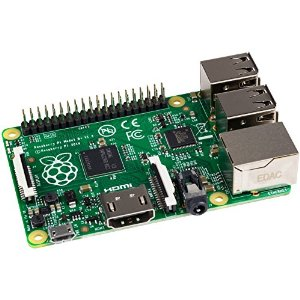
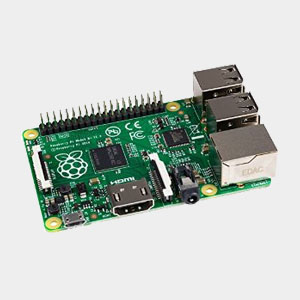
Add WEBP files, functionality for many large images

diff --git a/assets/js/tour.js b/assets/js/tour.js
@@ -1,42 +1,42 @@
 const content = {
     'dorm': {
         'title': 'Dorm Room',
-        'photos': ['/assets/images/tour/dorm/1.jpg'],
+        'photos': ['/assets/images/tour/dorm/1'],
         'description': 'Though the walls are the same as regular dorm rooms, our rooms usually look rather different than the standard RIT room layout.',
     },
     'user-center': {
         'title': 'User Center',
-        'photos': ['/assets/images/tour/usercenter/1.jpg', '/assets/images/tour/usercenter/2.jpg'],
+        'photos': ['/assets/images/tour/usercenter/1', '/assets/images/tour/usercenter/2'],
         'description': 'The User Center is a productive social room. It is often sought out as a place for members to socialize and get work done. It also serves as a meeting place, a project work room, and a technical seminar room.',
     },
     'lounge': {
         'title': 'Lounge',
-        'photos': ['/assets/images/tour/lounge/1.jpg', '/assets/images/tour/lounge/2.jpg'],
+        'photos': ['/assets/images/tour/lounge/1', '/assets/images/tour/lounge/2'],
         'description': 'The Lounge is CSH\'s main social hub. This room is used to host movie nights, social events, technical seminars, company visits, and E-Board meetings.',
     },
     'server-room': {
         'title': 'Server Room',
-        'photos': ['/assets/images/tour/server/1.jpg', '/assets/images/tour/server/2.jpg'],
+        'photos': ['/assets/images/tour/server/1', '/assets/images/tour/server/2'],
         'description': 'CSH\'s server room serves as a place for members to learn and practice their networking skills. It also serves as a place to host the variety of network services provided to our members.',
     },
     'software-room': {
         'title': 'Software Room',
-        'photos': ['/assets/images/tour/software/1.jpg', '/assets/images/tour/software/2.jpg'],
+        'photos': ['/assets/images/tour/software/1', '/assets/images/tour/software/2'],
         'description': 'The Software Room is the perfect place for small group tasks. It is a quiet room that is away from the normal hustle and bustle of floor which makes it great for taking phone calls, playing board games, and working on group assignments. The Software Room also houses CSH\'s book collection as well as a variety of board games.',
     },
     'research-room': {
         'title': 'Research Room',
-        'photos': ['/assets/images/tour/research/1.jpg', '/assets/images/tour/research/2.jpg', '/assets/images/tour/research/3.jpg', '/assets/images/tour/research/4.jpg'],
+        'photos': ['/assets/images/tour/research/1', '/assets/images/tour/research/2', '/assets/images/tour/research/3', '/assets/images/tour/research/4'],
         'description': 'The Research Room is CSH\'s workshop. It houses our two 3D Printers, as well as the tools and materials for members\' electronics projects.',
     },
     'project-room': {
         'title': 'Project Room',
-        'photos': ['/assets/images/tour/project/1.jpg', '/assets/images/tour/project/2.jpg'],
+        'photos': ['/assets/images/tour/project/1', '/assets/images/tour/project/2'],
         'description': 'The Project Room is CSH\'s own custom woodshop. It provides the tools and resources necessary for members to complete any project they can imagine.',
     },
     'library': {
         'title': 'Library',
-        'photos': ['/assets/images/tour/library/1.jpg', '/assets/images/tour/library/2.jpg'],
+        'photos': ['/assets/images/tour/library/1', '/assets/images/tour/library/2'],
         'description': 'The Library is CSH\'s multi-function archive and arcade. It serves as a storage place for all of our historical records and keepsakes as well as a variety of arcade machines, both vintage and custom-built.',
     },
     'conference-room': {
@@ -46,10 +46,15 @@ const content = {
     },
 };
 
-const constructSliderHTML = (photos) => {
+const constructSliderHTML = (room) => {
     let innerHTML = '';
-    for (let photo of photos) {
-        innerHTML += '<div><img src="' + photo + '" /></div>\n';
+    for (let photo of room.photos) {
+        innerHTML += `
+            <picture>
+                <source srcset="${photo}.webp" type="image/webp" />
+                <source srcset="${photo}.jpg" type="image/jpeg" />
+                <img src="${photo}.jpg" alt="CSH ${room.title}" />
+            </picture>`;
     }
     return innerHTML;
 };
@@ -60,7 +65,7 @@ $(document).ready(() => {
         $('#slider').slick('unslick');
         $('#tour-description').text(room.description);
         $('#tour-title').text(room.title);
-        $('#slider').html(constructSliderHTML(room.photos));
+        $('#slider').html(constructSliderHTML(room));
         $('#slider').slick({
             dots: true,
             autoplay: true,
@@ -75,7 +80,7 @@ $(document).ready(() => {
             const room = content[$(this).attr('id')];
             $('#tour-description').text(room.description);
             $('#tour-title').text(room.title);
-            $('#slider').html(constructSliderHTML(room.photos));
+            $('#slider').html(constructSliderHTML(room));
             $('#slider').slick({
                 dots: true,
                 autoplay: true,

diff --git a/index.html b/index.html
@@ -5,13 +5,25 @@ active: home
 
 <div id="slider">
     <div>
-        <img src="/assets/images/welcome_back_large.jpeg" alt="A group of CSHers standing in front of a lake" />
+        <picture>
+            <source srcset="/assets/images/welcome_back_large.webp" type="image/webp" />
+            <source srcset="/assets/images/welcome_back_large.jpeg" type="image/jpeg" />
+            <img src="/assets/images/welcome_back_large.jpeg" alt="A group of CSHers standing in front of a lake" />
+        </picture>
     </div>
     <div>
-        <img src="/assets/images/server_room.jpeg" alt="A CSH member stands at a terminal in the CSH server room" />
+        <picture>
+            <source srcset="/assets/images/server_room.webp" type="image/webp" />
+            <source srcset="/assets/images/server_room.jpeg" type="image/jpeg" />
+            <img src="/assets/images/server_room.jpeg" alt="A CSH member stands at a terminal in the CSH server room" />
+        </picture>
     </div>
     <div>
-        <img src="/assets/images/rock.jpeg" alt="CSHers crowd around a rock painted red with a CSH logo on it in white" />
+        <picture>
+            <source srcset="/assets/images/rock.webp" type="image/webp" />
+            <source srcset="/assets/images/rock.jpeg" type="image/jpeg" />
+            <img src="/assets/images/rock.jpeg" alt="CSHers crowd around a rock painted red with a CSH logo on it in white" />
+        </picture>
     </div>
 </div>
 
@@ -19,7 +31,11 @@ active: home
     <div class="container spaced" id="homepage-about">
         <div class="row">
             <div class="col-12 col-lg-6">
-                <img class="rounded" src="/assets/images/about_image.jpeg" alt="A group of CSHers at our annual camping trip">
+                <picture>
+                    <source srcset="/assets/images/about_image.webp" type="image/webp" />
+                    <source srcset="/assets/images/about_image.jpeg" type="image/jpeg" />
+                    <img class="rounded" src="/assets/images/about_image.jpeg" alt="A group of CSHers at our annual camping trip">
+                </picture>
             </div>
             <div class="col-12 col-lg-6">
                 <p>Since 1976, Computer Science House has provided a revolutionary living and learning environment for its members. With unique facilities, an emphasis on hands-on learning, and a strong social atmosphere, CSH helps its members grow as professionals and more.</p>
@@ -58,16 +74,32 @@ active: home
             <div class="col-12 col-lg-8 images">
                 <div class="row">
                     <div class="col-3">
-                        <img class="rounded"  src="/assets/images/projects/schedulemaker.jpg" alt="The logo for CSH Schedule Maker" />
+                        <picture>
+                            <source srcset="/assets/images/projects/schedulemaker.webp" type="image/webp" />
+                            <source srcset="/assets/images/projects/schedulemaker.jpg" type="image/jpeg" />
+                            <img class="rounded"  src="/assets/images/projects/schedulemaker.jpg" alt="The logo for CSH Schedule Maker" />
+                        </picture>
                     </div>
                     <div class="col-3">
-                        <img class="rounded"  src="/assets/images/projects/arcade.jpg" alt="Two custom arcade machines in the CSH library" />
+                        <picture>
+                            <source srcset="/assets/images/projects/arcade.webp" type="image/webp" />
+                            <source srcset="/assets/images/projects/arcade.jpg" type="image/jpeg" />
+                            <img class="rounded"  src="/assets/images/projects/arcade.jpg" alt="Two custom arcade machines in the CSH library" />
+                        </picture>
                     </div>
                     <div class="col-3">
-                        <img class="rounded"  src="/assets/images/projects/drink.jpg" alt="Two of CSH's networked vending machines, Drink and Snack.">
+                        <picture>
+                            <source srcset="/assets/images/projects/drink.webp" type="image/webp" />
+                            <source srcset="/assets/images/projects/drink.jpg" type="image/jpeg" />
+                            <img class="rounded"  src="/assets/images/projects/drink.jpg" alt="Two of CSH's networked vending machines, Drink and Snack.">
+                        </picture>
                     </div>
                     <div class="col-3">
-                        <img class="rounded"  src="/assets/images/projects/harold.jpg" alt="Harold, a box with a sensor on it, that plays members' music" />
+                        <picture>
+                            <source srcset="/assets/images/projects/harold.webp" type="image/webp" />
+                            <source srcset="/assets/images/projects/harold.jpg" type="image/jpeg" />
+                            <img class="rounded"  src="/assets/images/projects/harold.jpg" alt="Harold, a box with a sensor on it, that plays members' music" />
+                        </picture>
                     </div>
                 </div>
             </div>

diff --git a/about/projects.html b/about/projects.html
@@ -17,7 +17,11 @@ active: about-projects
     </div>
     <div class="row spaced">
       <div class="col-12 col-lg-3">
-        <img class="rounded" src="/assets/images/projects/drink.jpg" />
+          <picture>
+              <source srcset="/assets/images/projects/drink.webp" type="image/webp" />
+              <source srcset="/assets/images/projects/drink.jpg" type="image/jpeg" />
+              <img class="rounded"  src="/assets/images/projects/drink.jpg" alt="Two of CSH's networked vending machines, Drink and Snack." />
+          </picture>
       </div>
       <div class="col-12 col-lg-9">
         <h2>Drink/Snack</h2>
@@ -31,7 +35,11 @@ active: about-projects
     </div>
     <div class="row spaced">
       <div class="col-12 col-lg-3">
-        <img class="rounded" src="/assets/images/projects/schedulemaker.jpg" />
+          <picture>
+              <source srcset="/assets/images/projects/schedulemaker.webp" type="image/webp" />
+              <source srcset="/assets/images/projects/schedulemaker.jpg" type="image/jpeg" />
+              <img class="rounded"  src="/assets/images/projects/schedulemaker.jpg" alt="The logo for CSH Schedule Maker" />
+          </picture>
       </div>
       <div class="col-12 col-lg-9">
         <h2><a href="https://schedulemaker.csh.rit.edu">Schedule Maker</a></h2>
@@ -46,7 +54,11 @@ active: about-projects
     </div>
     <div class="row spaced">
       <div class="col-12 col-lg-3">
-        <img class="rounded" src="/assets/images/projects/oppf.jpg" />
+          <picture>
+              <source srcset="/assets/images/projects/oppf.webp" type="image/webp" />
+              <source srcset="/assets/images/projects/oppf.jpg" type="image/jpeg" />
+              <img class="rounded" src="/assets/images/projects/oppf.jpg" alt="One Project Per Freshman, in which CSH freshmen are provided free hardware for projects" />
+          </picture>
       </div>
       <div class="col-12 col-lg-9">
         <h2>One Project Per Freshman</h2>
@@ -62,7 +74,11 @@ active: about-projects
     </div>
     <div class="row spaced">
       <div class="col-12 col-lg-3">
-        <img class="rounded" src="/assets/images/projects/harold.jpg" />
+          <picture>
+              <source srcset="/assets/images/projects/harold.webp" type="image/webp" />
+              <source srcset="/assets/images/projects/harold.jpg" type="image/jpeg" />
+              <img class="rounded"  src="/assets/images/projects/harold.jpg" alt="Harold, a box with a sensor on it, that plays members' music" />
+          </picture>
       </div>
       <div class="col-12 col-lg-9">
         <h2>Harold</h2>
@@ -76,7 +92,11 @@ active: about-projects
     </div>
     <div class="row spaced">
       <div class="col-12 col-lg-3">
-        <img class="rounded" src="/assets/images/projects/arcade.jpg" />
+          <picture>
+              <source srcset="/assets/images/projects/arcade.webp" type="image/webp" />
+              <source srcset="/assets/images/projects/arcade.jpg" type="image/jpeg" />
+              <img class="rounded"  src="/assets/images/projects/arcade.jpg" alt="Two custom arcade machines in the CSH library" />
+          </picture>
       </div>
       <div class="col-12 col-lg-9">
         <h2>CSH Arcade</h2>
@@ -91,7 +111,11 @@ active: about-projects
     </div>
     <div class="row spaced">
       <div class="col-12 col-lg-3">
-        <img class="rounded" src="/assets/images/projects/infosys.jpg" />
+          <picture>
+              <source srcset="/assets/images/projects/infosys.webp" type="image/webp" />
+              <source srcset="/assets/images/projects/infosys.jpg" type="image/jpeg" />
+              <img class="rounded" src="/assets/images/projects/infosys.jpg" alt="An automated display in our User Center displaying the weather, high scores, and more" />
+          </picture>
       </div>
       <div class="col-12 col-lg-9">
         <h2>InfoSys</h2>
